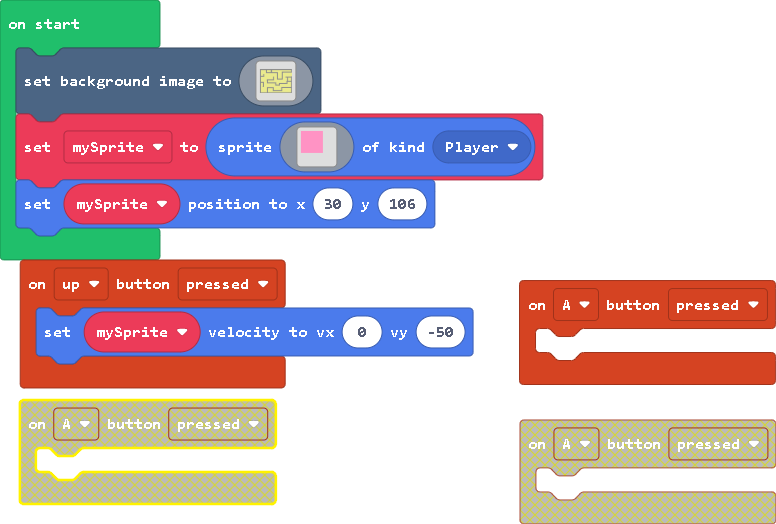
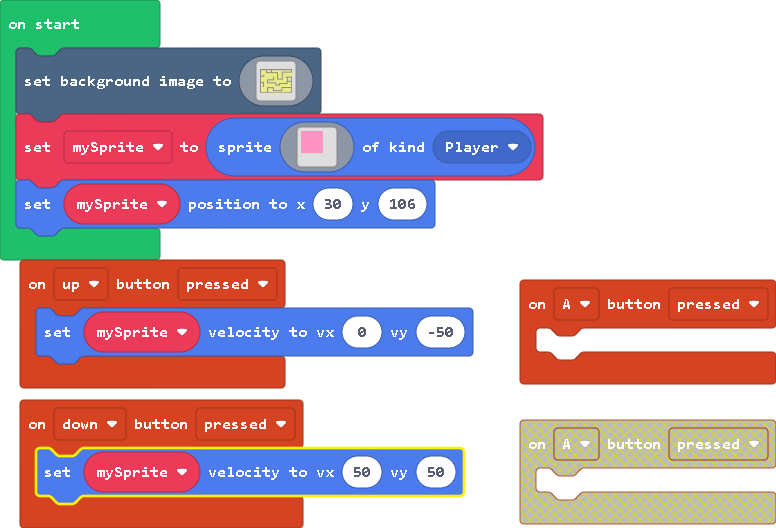
Update main.blocks, main.ts

diff --git a/main.ts b/main.ts
@@ -4,6 +4,9 @@ controller.up.onEvent(ControllerButtonEvent.Pressed, function () {
 controller.A.onEvent(ControllerButtonEvent.Pressed, function () {
 	
 })
+controller.down.onEvent(ControllerButtonEvent.Pressed, function () {
+    mySprite.setVelocity(50, 50)
+})
 let mySprite: Sprite = null
 scene.setBackgroundImage(img`
     ffffffffffffffffffffffffffffffffffffffffffffffffffffffffffffffffffffffffffffffffffffffffffffffffffffffffffffffffffffffffffffffffffffffffffffffffffffffffffffffff
